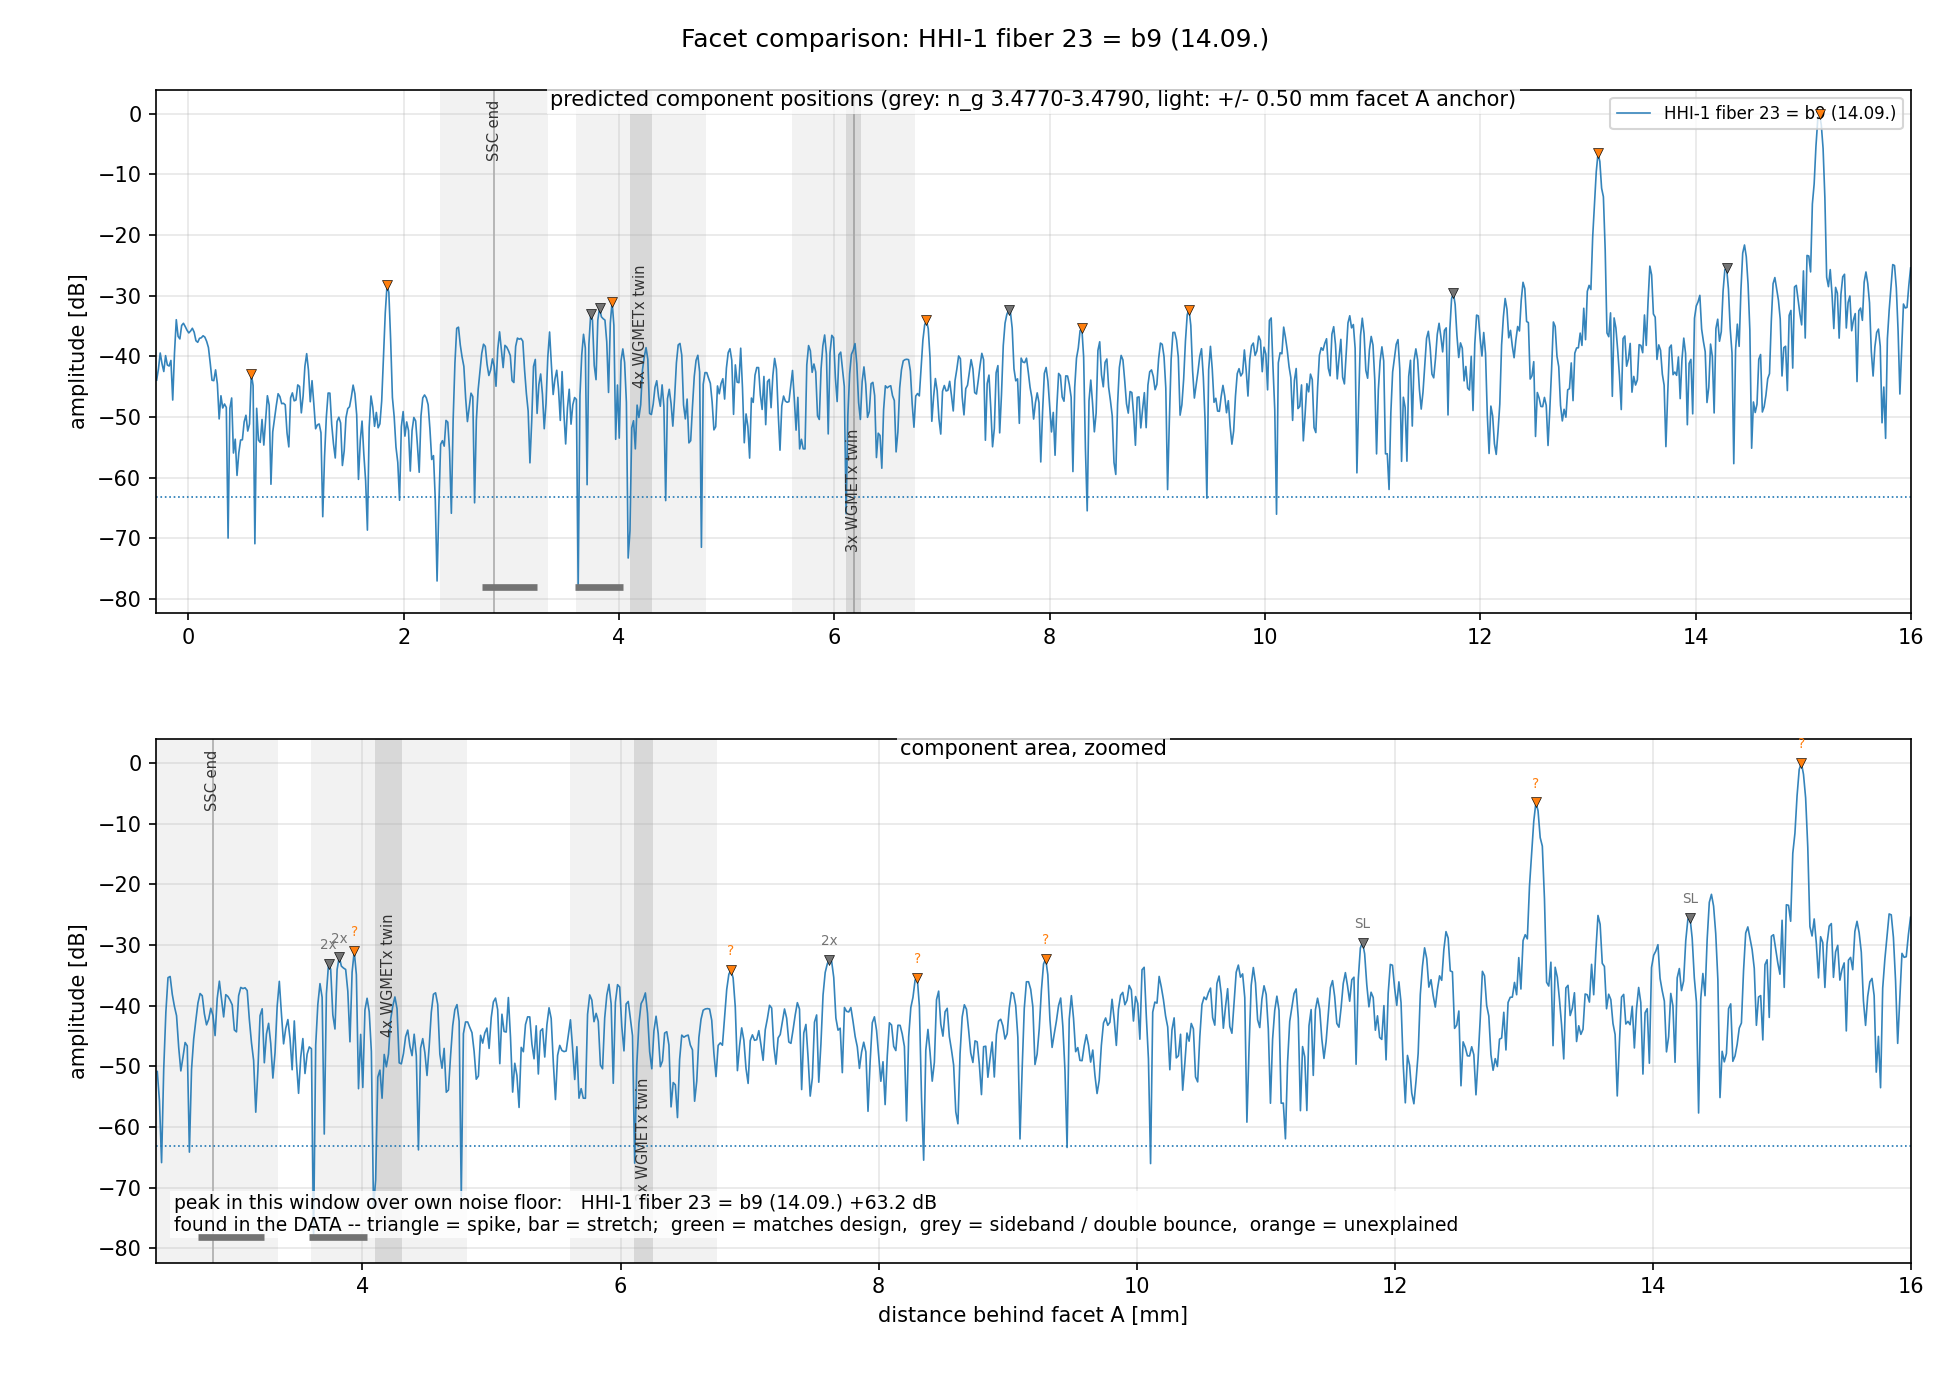
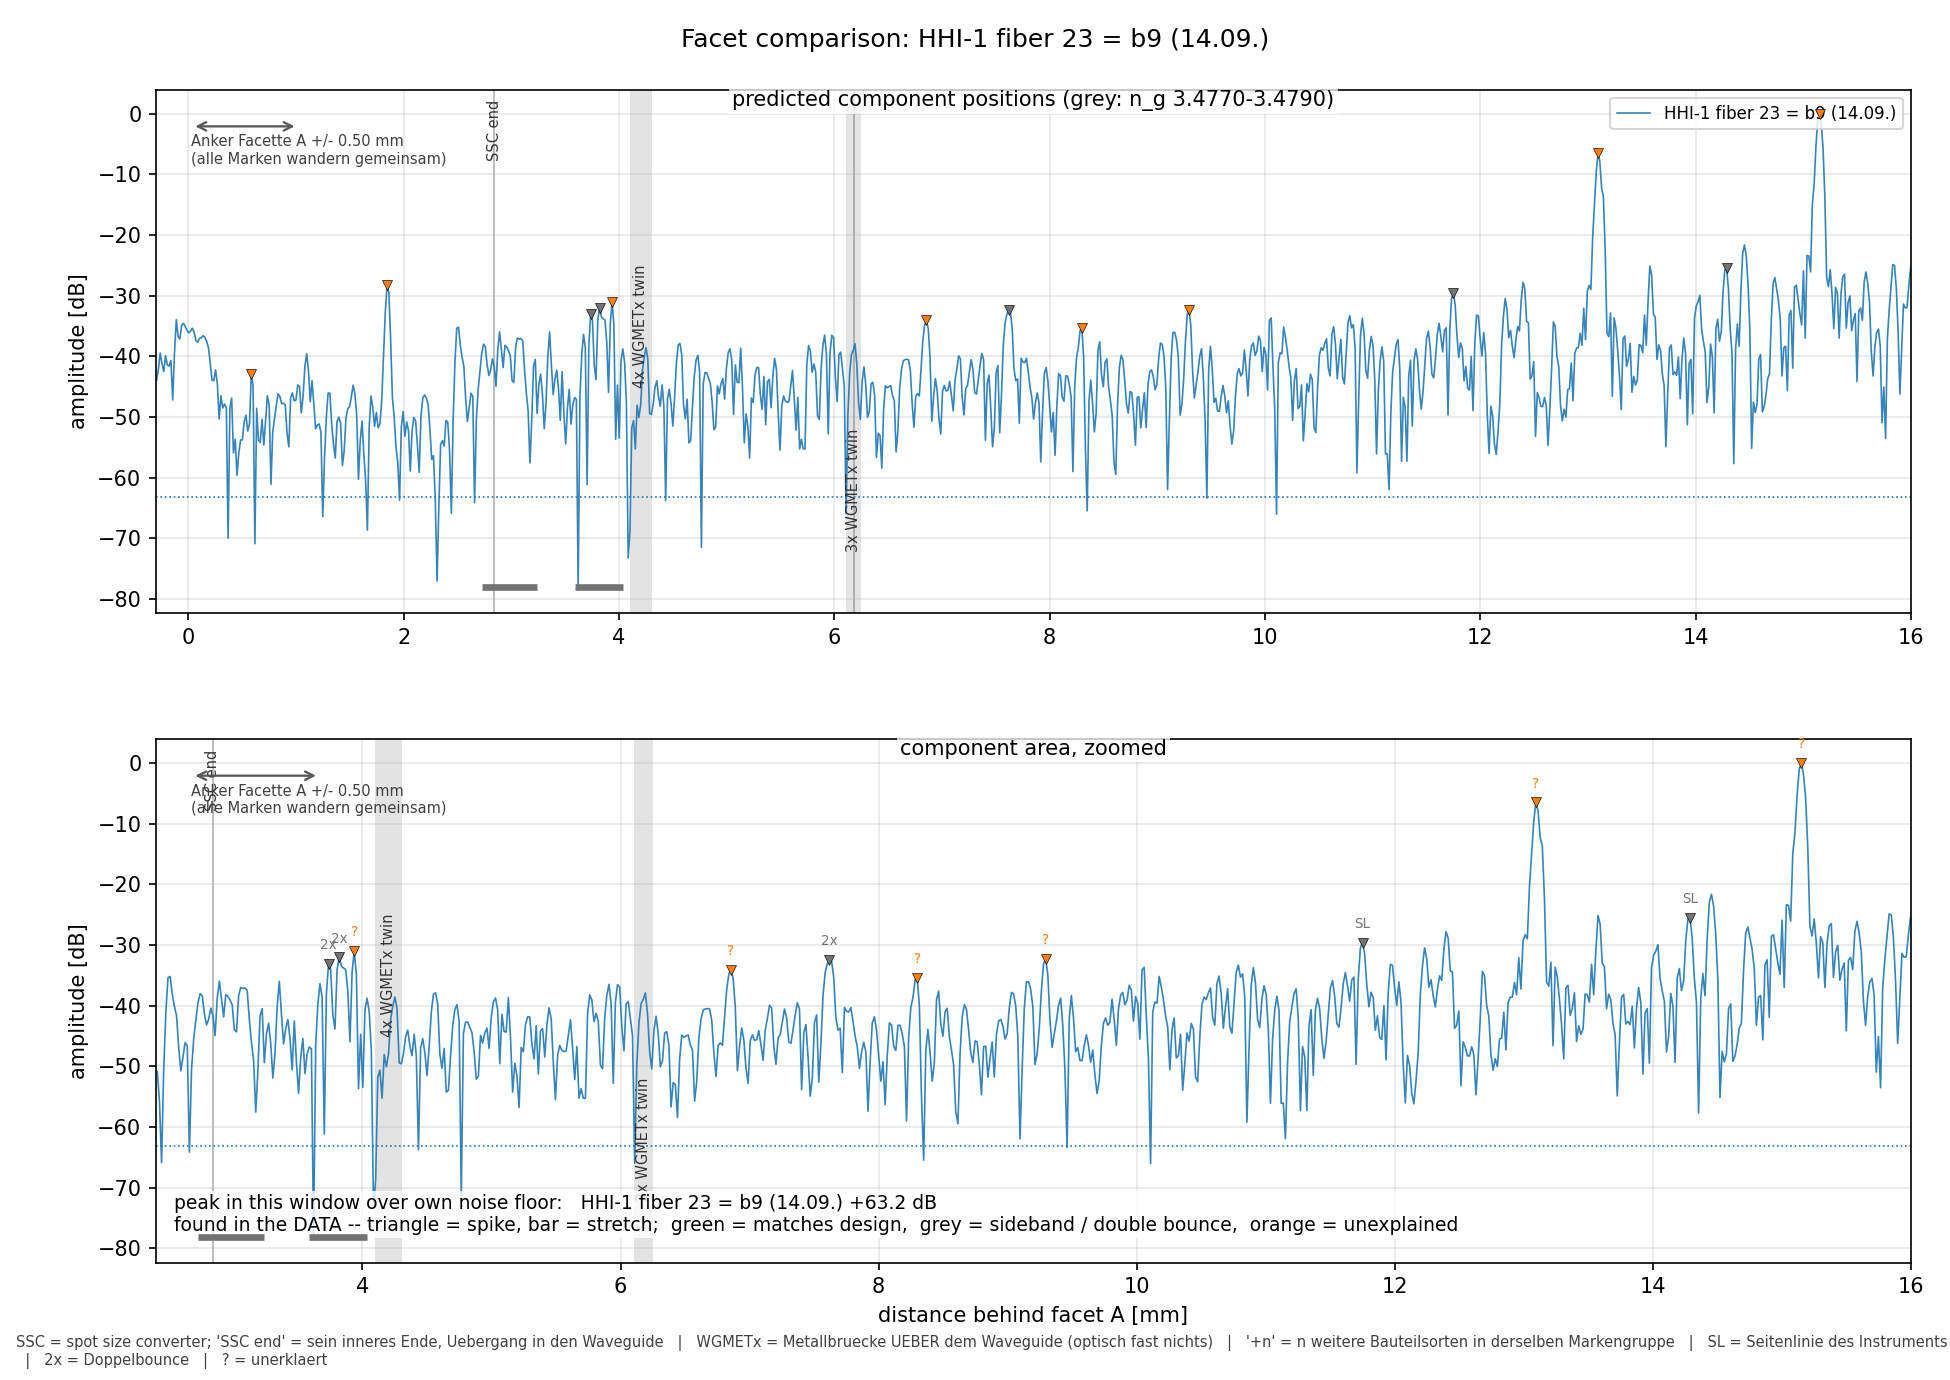
HHI-1 findings plots: shortened names, single facet-anchor scale bar, glossary; hump edge-case fix
- hhi_identify_peaks.py: reuse short() component names from hhi_channel_marks
  instead of raw GDS cell names, so plot labels match across tools
- hump_verdict: a hump that fills a design segment touches both its
  endpoints by construction; stop disqualifying it as "spans 2 interfaces"
  for that reason alone (epsilon margin instead)
- plot_chip_comparison.py: draw the facet-A anchor uncertainty as a single
  scale bar instead of a halo around every mark (was unreadable with 24
  marks); add an auto-built glossary of the abbreviations actually used
  in each plot
- regenerate all seven findings CSVs and plots with the fixes above

diff --git a/tools/plot_chip_comparison.py b/tools/plot_chip_comparison.py
@@ -55,6 +55,38 @@ def envelope(z, db, nout):
     return zz[np.arange(len(i)), i], dd[np.arange(len(i)), i]
 
 
+# Abkuerzung -> Klartext. Gezeigt wird im Plot nur, was dort auch vorkommt.
+GLOSS = [
+    ("chip facet", "chip facet = Chipfacette (InP/Luft), der einzige harte Reflektor"),
+    ("SSC end", "SSC = spot size converter; 'SSC end' = sein inneres Ende, Uebergang in den Waveguide"),
+    ("loop", "loop = Wellenleiterschleife zwischen den zwei SSC (reflektiert nicht, streut nur)"),
+    ("BJ", "BJ = butt joint, Stoss aktiv/passiv"),
+    ("SOA", "SOA = Halbleiterverstaerker"),
+    ("MMI2x2", "MMI2x2 = 2-auf-2-Koppler"),
+    ("MMI1x2", "MMI1x2 = 1-auf-2-Leistungsteiler"),
+    ("crossing", "crossing = Wellenleiterkreuzung"),
+    ("PMTO", "PMTO = thermo-optischer Phasenschieber"),
+    ("ISO", "ISO = elektrische Isolationssektion"),
+    ("WGMETx", "WGMETx = Metallbruecke UEBER dem Waveguide (optisch fast nichts)"),
+    ("EdgeCoupler", "EdgeCoupler = Kantenkoppler"),
+    ("pitch split", "pitch split = Faecher, der den Kanalabstand aufweitet"),
+    ("MZM", "MZM = Mach-Zehnder-Modulator"),
+    ("Heater", "Heater = Heizelektrode (optisch unsichtbar)"),
+]
+SYMS = [("+", "'+n' = n weitere Bauteilsorten in derselben Markengruppe"),
+        ("SL", "SL = Seitenlinie des Instruments"),
+        ("2x", "2x = Doppelbounce"),
+        ("?", "? = unerklaert")]
+
+
+def glossary(labels):
+    """Nur die Abkuerzungen erklaeren, die in diesem Plot auch auftauchen."""
+    txt = " ".join(labels)
+    out = [v for k, v in GLOSS if k in txt]
+    out += [v for k, v in SYMS if k in txt]
+    return out
+
+
 FIND_COLOR = {"Designgrenzflaeche": "#2ca02c", "Strecke gefuellt": "#2ca02c",
               "Seitenlinie": "0.45", "Doppelbounce": "0.45",
               "Fuss eines Stachels": "0.45", "unerklaert": "#ff7f0e"}
@@ -311,9 +343,7 @@ def main():
         for row, (lo_x, hi_x, ttl) in enumerate((
                 (-0.3, a.marks_zmax,
                  "predicted component positions (grey: n_g %.4f-%.4f%s)"
-                 % (a.ng[0], a.ng[1],
-                    ", light: +/- %.2f mm facet A anchor" % a.facet_unc
-                    if a.facet_unc else "")),
+                 % (a.ng[0], a.ng[1], "")),
                 (zoom_m[0], zoom_m[1], "component area, zoomed"))):
             axm = ax[base + row]
             for i, s_ in enumerate(scans):
@@ -324,9 +354,6 @@ def main():
                          label=s_["label"] if row == 0 else None)
                 axm.axhline(s_["floor"], color=c, ls=":", lw=0.8)
             for i, (name, lo_, hi_) in enumerate(bands):
-                if a.facet_unc:
-                    axm.axvspan(lo_ - a.facet_unc, hi_ + a.facet_unc,
-                                color="0.5", alpha=0.10, lw=0)
                 axm.axvspan(lo_, hi_, color="0.5", alpha=0.22, lw=0)
                 # Bei HHI ist n_g auf 0.01 % bekannt und eine Einzelmarke
                 # damit 4 um breit -- als Flaeche waere sie unsichtbar.
@@ -344,6 +371,19 @@ def main():
                              clip_on=True, color="0.2")
             if finds:
                 draw_findings(axm, scans, finds, lo_x, hi_x, row == 1)
+            if a.facet_unc:
+                # Als EIN Massstab, nicht als Hof um jede Marke: bei 24
+                # Marken mit je +-0.5 mm ist sonst die ganze Achse grau und
+                # es sieht so aus, als ueberlappten die Bauteile.
+                x0 = lo_x + 0.02 * (hi_x - lo_x)
+                axm.annotate("", xy=(x0, 0.93), xytext=(x0 + 2 * a.facet_unc, 0.93),
+                             xycoords=("data", "axes fraction"),
+                             arrowprops=dict(arrowstyle="<->", color="0.35",
+                                             lw=1.1))
+                axm.annotate("Anker Facette A +/- %.2f mm\n(alle Marken "
+                             "wandern gemeinsam)" % a.facet_unc,
+                             xy=(x0, 0.915), xycoords=("data", "axes fraction"),
+                             ha="left", va="top", fontsize=7, color="0.25")
             axm.set_xlim(lo_x, hi_x)
             axm.set_ylabel("amplitude [dB]")
             axm.text(0.5, 1.0, ttl, transform=axm.transAxes, ha="center",
@@ -370,6 +410,21 @@ def main():
                          transform=axm.transAxes, fontsize=9,
                          bbox=dict(fc="white", ec="none", alpha=0.8, pad=1.5))
 
+    if marks:
+        used = [b[0] for b in bands]
+        if finds:
+            used += [r["candidate"] for rr in finds for r in rr]
+            used += [FIND_TAG.get(r["verdict"], "") for rr in finds for r in rr]
+        gl = glossary(used)
+        if gl:
+            txt = "   |   ".join(gl)
+            # Platz schaffen, bevor geschrieben wird -- sonst laeuft das
+            # Glossar in das Achsenlabel des unteren Panels.
+            nlin = 1 + len(txt) // 190
+            fig.subplots_adjust(bottom=fig.subplotpars.bottom
+                                + 0.016 * nlin + 0.022)
+            fig.text(0.008, 0.008, txt, fontsize=7, color="0.25",
+                     va="bottom", wrap=True)
     fig.suptitle("Facet comparison: " + "  vs  ".join(s["label"] for s in scans))
     os.makedirs(os.path.dirname(a.out), exist_ok=True)
     fig.savefig(a.out, dpi=150)

diff --git a/tools/hhi_identify_peaks.py b/tools/hhi_identify_peaks.py
@@ -63,6 +63,7 @@ sys.path.insert(0, os.path.dirname(_HERE))
 sys.path.insert(0, _HERE)
 from process_reflectogram_aux import noise_floor              # noqa: E402
 from identify_chip_scan import SSC, N_FIBER, drop_satellites  # noqa: E402
+from hhi_channel_marks import short                            # noqa: E402
 
 
 def load(path):
@@ -85,10 +86,7 @@ def interfaces(netlist, channel, ng):
             cell, _, port = r["device_port"].partition(":")
             if abs(d - SSC) < 1.0 and "SSCLATE" in cell:
                 continue          # eigene Facette, s. hhi_channel_marks.py
-            name = cell.split("_$")[0].replace("HHI_", "")
-            if "SSCLATE" in cell:
-                name = "chip facet" if port == "o2" else "SSC end"
-            out.append(((SSC + d) * 1e-3 * ng / N_FIBER, name))
+            out.append(((SSC + d) * 1e-3 * ng / N_FIBER, short(cell, port)))
     return sorted(out)
 
 

diff --git a/logs/2026-09-16.md b/logs/2026-09-16.md
@@ -832,3 +832,73 @@ den Facettenpeak -- 22 bis 25 dB darunter. Ein Reflektor im Chip kann so
 etwas nicht erzeugen; das sind Seitenlinien des Instruments, zusaetzlich
 zu den schon bekannten +-0.70/+-1.53 mm. Sie erklaeren einen Grossteil
 dessen, was in der Chipregion frueher als Struktur gezaehlt wurde.
+
+## 15:20 — Plots lesbar gemacht, und eine Korrektur
+
+Carolina: "ich checke nicht was die Abkuerzungen sind und wieso die grauen
+Felder alle ueberlappen, sie sollen doch nicht ueberlappen."
+
+**Die Bauteilmarken haben nie ueberlappt.** Ueberlappt haben die HELLEN
+Felder -- das war die Facette-A-Ankerunsicherheit von +-0.5 mm, und die
+hatte ich um JEDE Marke einzeln gezeichnet. Bei 24 Marken mit je +-0.5 mm
+ist die ganze Achse grau, und es sieht aus, als saessen die Bauteile
+ineinander. Falsch dargestellt, nicht falsch gerechnet: der Anker
+verschiebt ALLE Marken gemeinsam, er verbreitert nicht jede einzeln.
+`--facet-unc` zeichnet jetzt einen einzelnen Massstabspfeil oben links
+statt eines Hofs um jede Marke.
+
+Dazu ein Glossar unter jeder Figur, automatisch aus den im Plot
+tatsaechlich vorkommenden Abkuerzungen gebaut (`GLOSS`/`SYMS` in
+`plot_chip_comparison.py`):
+
+| | |
+|---|---|
+| chip facet | Chipfacette InP/Luft, der einzige harte Reflektor |
+| SSC | spot size converter; "SSC end" = sein inneres Ende |
+| loop | Schleife zwischen den zwei SSC (reflektiert nicht, streut nur) |
+| BJ | butt joint, Stoss aktiv/passiv |
+| SOA | Halbleiterverstaerker |
+| MMI1x2 / MMI2x2 | Leistungsteiler / 2-auf-2-Koppler |
+| PMTO | thermo-optischer Phasenschieber |
+| ISO | elektrische Isolationssektion |
+| WGMETx | Metallbruecke UEBER dem Waveguide (optisch fast nichts) |
+| +n | n weitere Bauteilsorten in derselben Markengruppe |
+| SL / 2x / ? | Seitenlinie / Doppelbounce / unerklaert |
+
+`hhi_identify_peaks.py` benutzt jetzt dieselben Kurznamen wie
+`hhi_channel_marks.py` (`short()` importiert statt nachgebaut), sonst
+stand im Plot einmal "MMI1x2" und einmal "MMI1x2E1700".
+
+### KORREKTUR zum Eintrag von 14:30
+
+Dort stand, keiner von Carolinas vier Buckeln fuelle eine Designstrecke
+aus. Das galt vor der Korrektur der Kantenregel (ein Buckel, der eine
+Strecke ausfuellt, beruehrt zwangslaeufig deren beide Enden und wurde
+deshalb faelschlich als "ueberspannt 2 Grenzflaechen" verworfen). Nach
+der Korrektur gilt:
+
+| Buckel | Breite | Deutung |
+|---|---|---|
+| 20.19-20.92 mm | 0.73 mm | Teil der Strecke 18.57-21.62 mm |
+| 23.77-25.38 mm | 1.61 mm | ueberspannt 5 Grenzflaechen |
+| **27.46-28.60 mm** | **1.145 mm** | **fuellt die Strecke 27.478-28.465 mm (0.986 mm) aus, +158 um, p = 0.028** |
+| 31.41-32.73 mm | 1.33 mm | ueberspannt 9 Grenzflaechen |
+
+Die Strecke 27.478-28.465 mm ist ein **416 um langer Wellenleiterlauf
+zwischen einem SOA und einem PMTO**. Das ist damit der beste Kandidat im
+ganzen Kanal.
+
+**Trotzdem keine Detektion.** Der Einzel-p von 0.028 ist nicht die
+richtige Zahl, wenn man zehn Buckel prueft. Monte-Carlo ueber alle zehn
+mit ihren beobachteten Breiten:
+
+    zufaellig erwartet: 0.61 x "Strecke gefuellt"   -   gefunden: 1
+
+Eins gegen 0.6 erwartete ist genau das, was der Zufall liefert. Dazu
+kommt, dass es von Faser 30 nur EINEN Scan gibt -- der Wiederholungstest,
+der bei den Loopbacks die Spreu vom Weizen trennt, fehlt hier ganz.
+
+**Konkreter Test, falls das weiterverfolgt werden soll:** Faser 30 ein
+zweites Mal messen. Steht der Buckel bei 27.46-28.60 mm wieder da, ist es
+Struktur; wandert er, war es Speckle. Das ist derselbe Test, der bei b0
+die Schleife bestaetigt und die Einzelpeaks darin verworfen hat.
